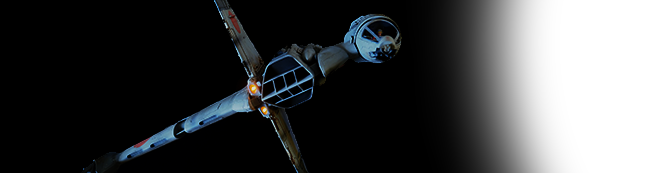
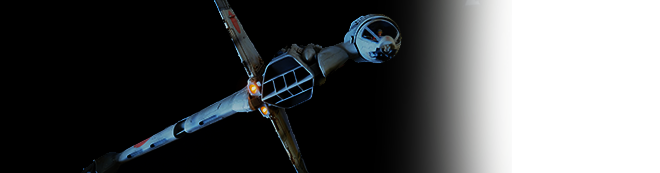
New Backgrounds

Changed region(s): [[0.6061, 0.0, 0.8485, 1.0]]

diff --git a/stylesheets/backgrounds.css b/stylesheets/backgrounds.css
@@ -328,6 +328,21 @@
   background-repeat: no-repeat;
   background-position: 0px -30px; }
 
+.ship-ewing {
+  background-image: url("../images/ewing0.png");
+  background-repeat: no-repeat;
+  background-position: 0px -30px; }
+
+.ship-fireball {
+  background-image: url("../images/fireball.png");
+  background-repeat: no-repeat;
+  background-position: 0px -20px; }
+
+.ship-tiebainterceptor {
+  background-image: url("../images/tiebainterceptor.png");
+  background-repeat: no-repeat;
+  background-position: 0px -30px; }
+
 .its-working {
   background-image: url("../images/its_working.png");
   background-repeat: no-repeat;
